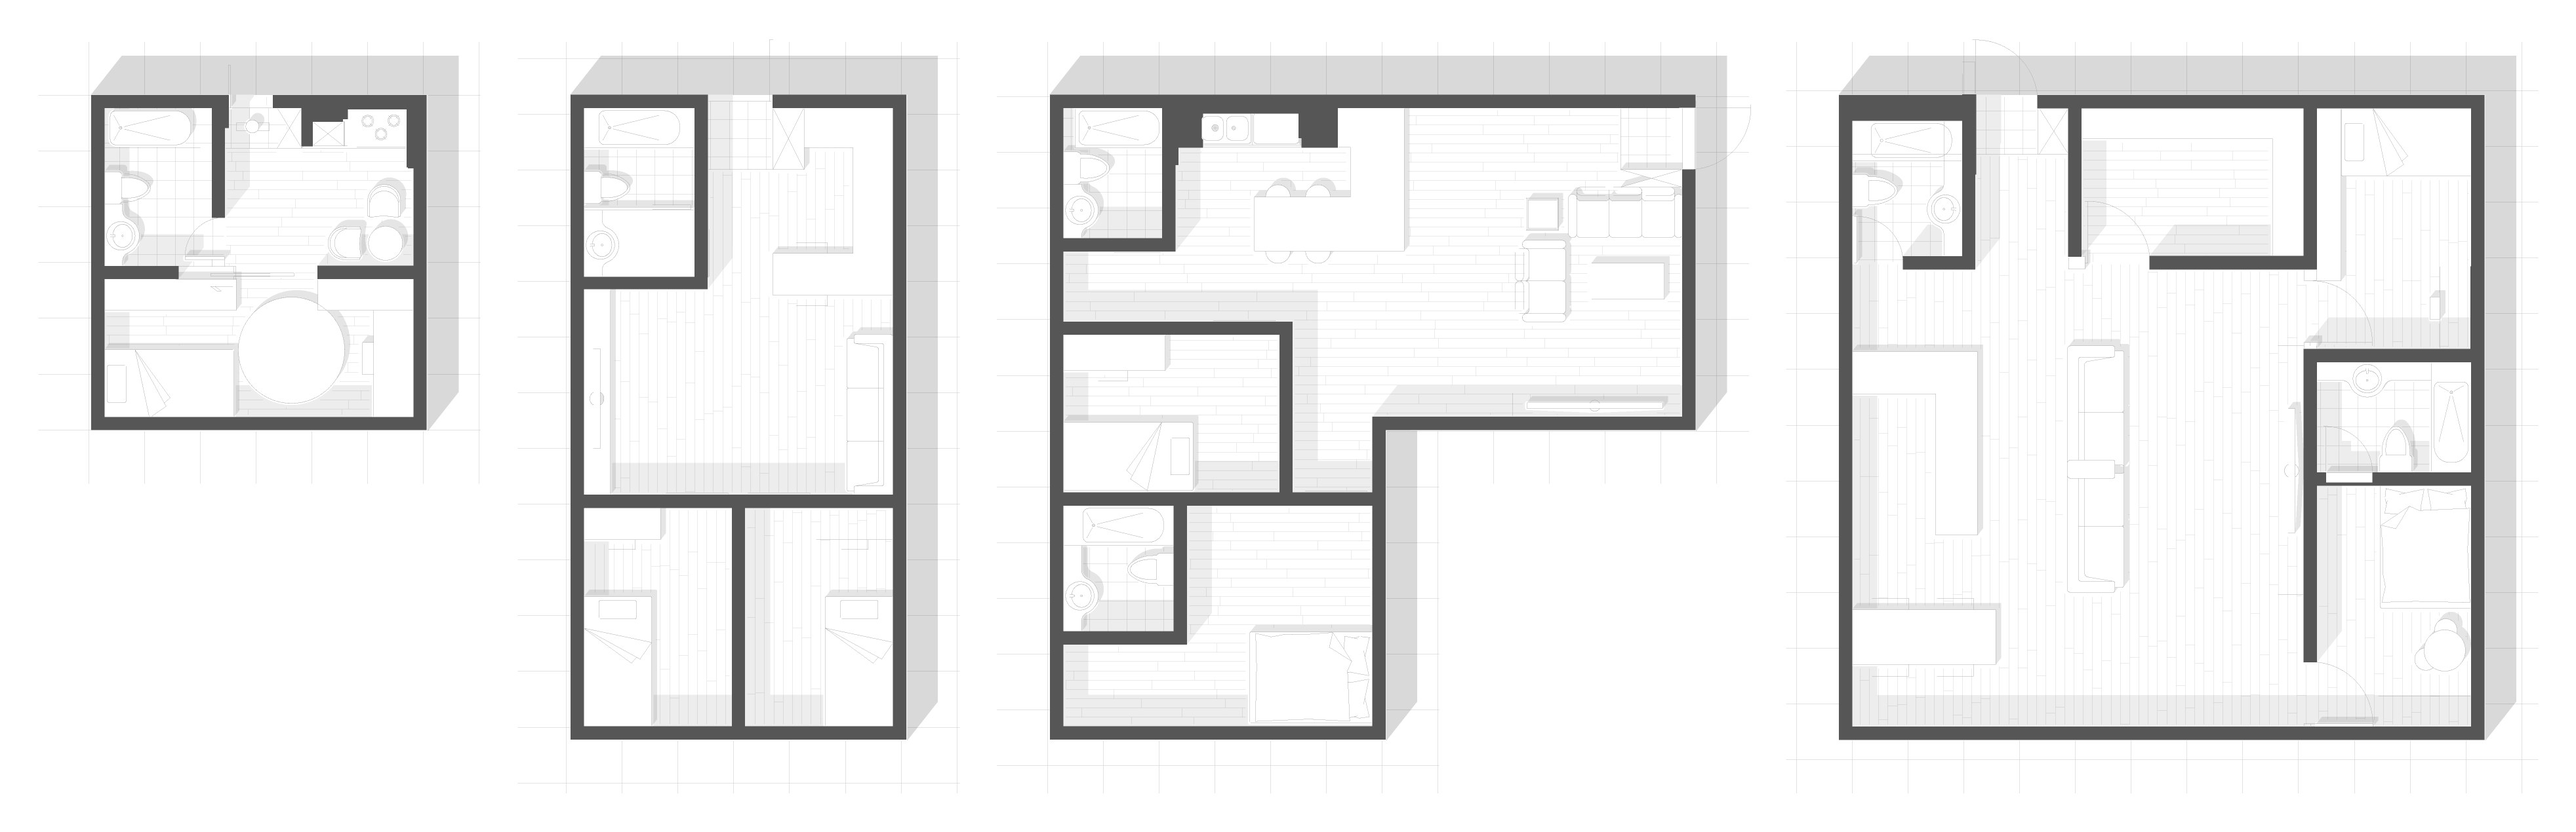
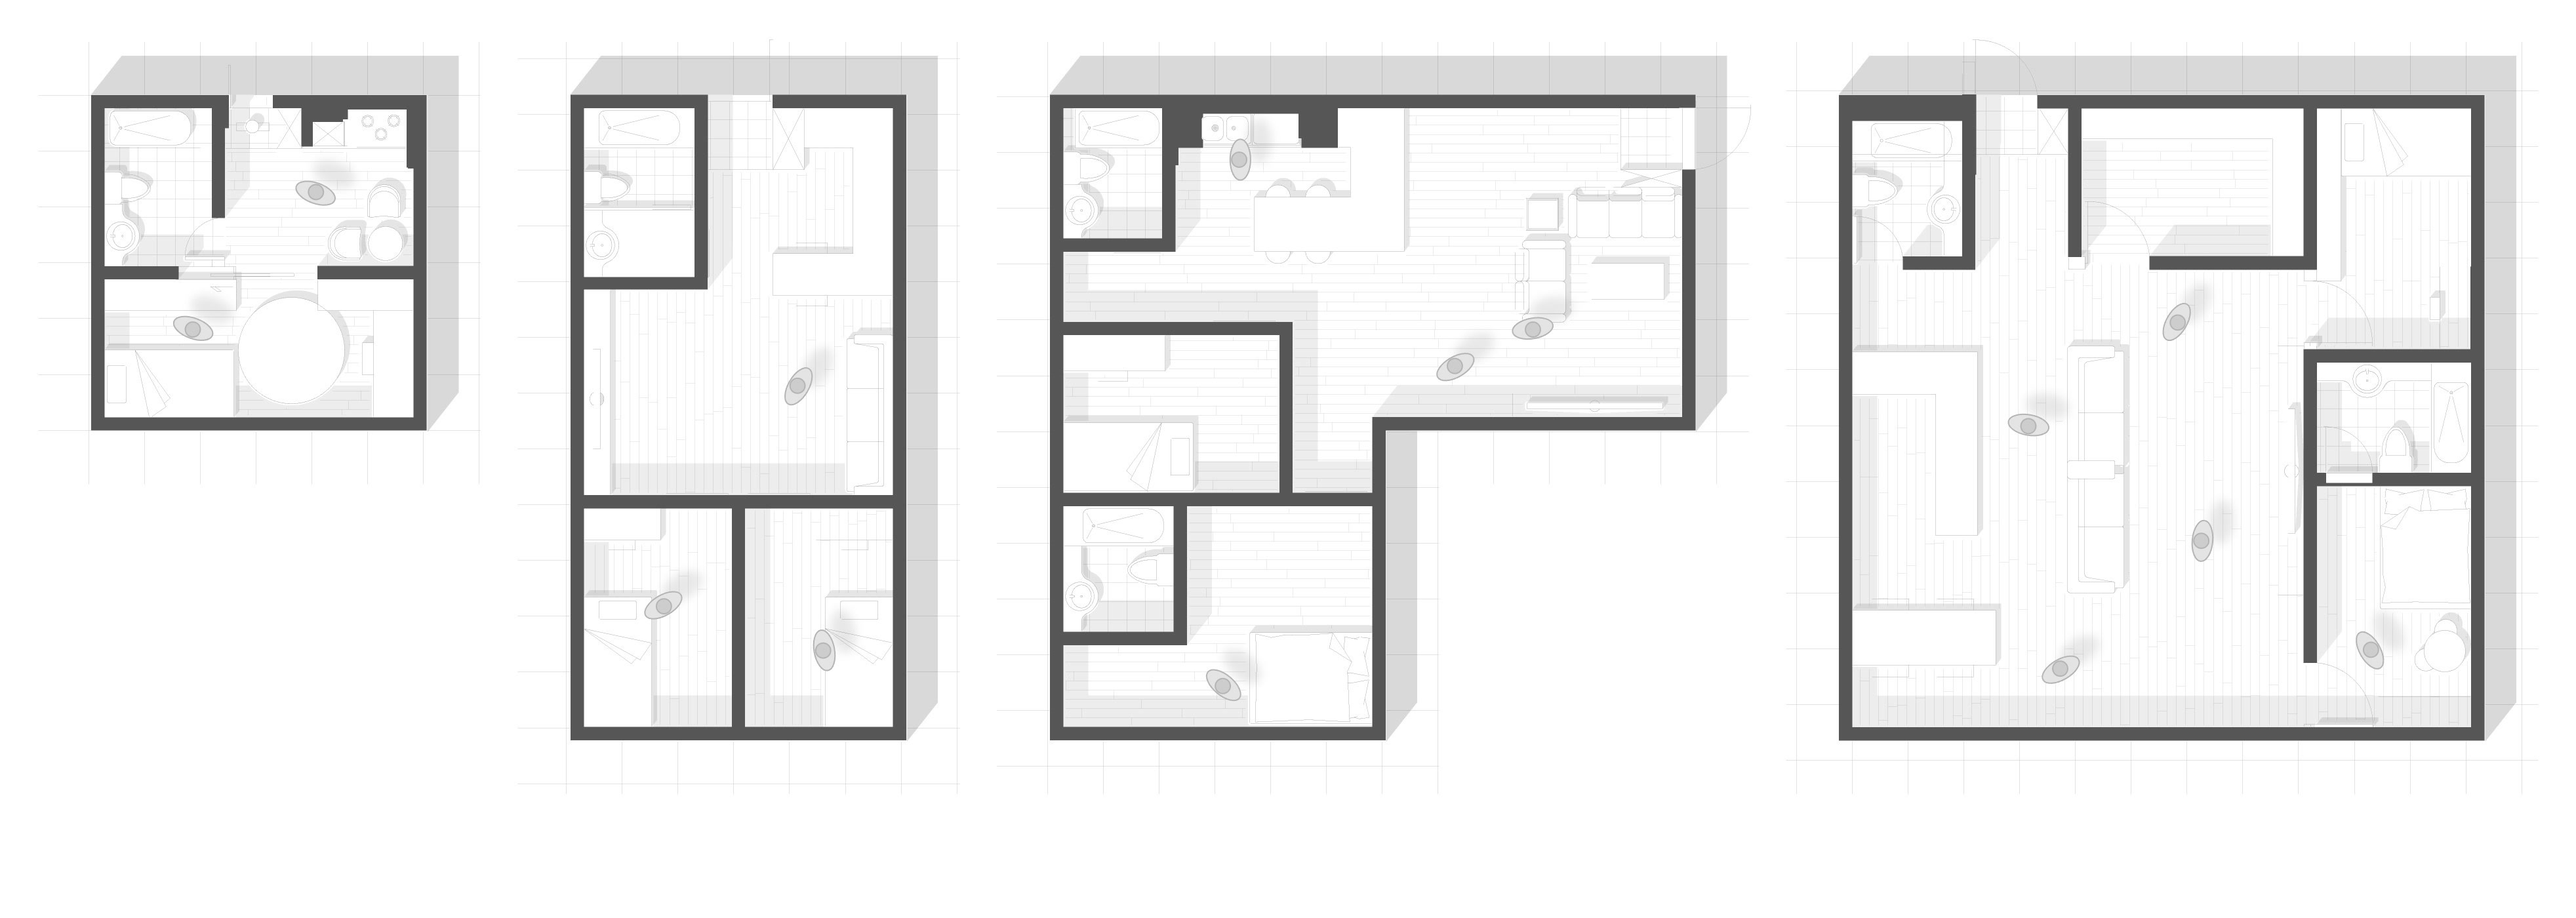
핀 #67 (Modular O′ housing 세대 평면): 타입 A–D 이름·칸 수·면적·쓰임을 사이트 글자로, 평면 안에 연한 사람(위에서 본 어깨·머리)과 벽 그림자 방향의 흐린 그림자 14명

diff --git a/assets/js/data.js b/assets/js/data.js
@@ -1123,7 +1123,7 @@ const SITE = {
         heading: "Mass Study", text: "Six moves on one site: maximum volume, entrance axis, four blocks, modular cells, daylight, bridges and arcade.", images: [{src: "assets/img/modular-o-housing/axonometric-render.jpg", caption: "Axonometric view — install, live, take apart", r: 1.778}], seq: {"kind":"frames","r":1.492,"lite":true,"fade":true,"k":0.72,"steps":[{"src":"assets/img/modular-o-housing/mass-1.svg","t":"Maximum volume","s":"the largest mass the site allows"},{"src":"assets/img/modular-o-housing/mass-2.svg","t":"Entrance axis","s":"a long shared plaza opens from the entrance"},{"src":"assets/img/modular-o-housing/mass-3.svg","t":"Four blocks","s":"split for access, with shared yards on two layers"},{"src":"assets/img/modular-o-housing/mass-4.svg","t":"Modular cells","s":"infill system and factory-made frames for a shorter build, grouped in clusters"},{"src":"assets/img/modular-o-housing/mass-5.svg","t":"Daylight","s":"heights stepped so the sun reaches the yards"},{"src":"assets/img/modular-o-housing/mass-6.svg","t":"Bridges + arcade","s":"bridges between blocks, shops in a ground-floor arcade, farm yards between"}]} },
       { v: 0, // 핀 #46 #66 왼쪽 끝 세로선에 맞춰요
         heading: "Kit of Parts", text: "One grid, one node, skeleton and infill, dry and reversible — eight module types that every part obeys.", images: [], pan: {"src":"assets/img/modular-o-housing/kit-strip.svg","r":23.857,"h":"11vh","solid":true,"labels":[[0.088,"V-00","Module frame","the base of every closed cell"],[5.643,"V-01","Studio cell","a whole home in one module"],[11.199,"V-02","Living cell","the wet cell of a joined home"],[16.754,"V-03","Bedroom cell","a dry cell: no pod, no kitchen"],[22.31,"V-04","Children’s room","two beds and a desk"],[27.865,"V-05","End cell","the gable is an outside wall"],[33.421,"V-06","Cluster hall","a living room for one storey"],[38.976,"V-07","Shop / café","ground floor, under the homes"],[44.532,"V-08","Community corner","the farm info centre"],[50.088,"F-00","Open frame","posts + beams, bolted on site"],[55.643,"F-01","Terrace","every home touches one"],[61.199,"F-02","Arcade","market, bikes, the doorstep"],[66.754,"F-03","Bridge","the complex crossed above the street"],[72.31,"F-04","Greenhouse / lounge","shared, in the voids"],[77.865,"F-05","Roof garden","beds rented by the season"],[83.421,"F-06","Smart-farm module","seedlings for the terraces"],[88.976,"C-01","Stair core","two flights a storey"],[94.532,"C-02","Lift core","beside each stair"]],"loop":true,"cap":"Kit of parts — eighteen modules on two frames"} },
-      { heading: "Plans", text: "Four floors drawn on one frame — scroll to go up the building, one floor at a time — and the four home types the cells combine into.", images: [{src: "assets/img/modular-o-housing/unit-plans.jpg", caption: "Home types — four unit plans built from the same cells", r: 3.093}], seq: {"kind":"frames","below":true,"r":1.48,"lite":true,"fade":true,"k":0.85,"steps":[{"src":"assets/img/modular-o-housing/plan-1.jpg","t":"Ground floor","s":"shops and the arcade","d":"Shops line the street under the west block; the open ground runs from the entrance into the site"},{"src":"assets/img/modular-o-housing/plan-2.jpg","t":"Second floor","s":"the shared deck","d":"The first home clusters sit on the podium deck, each around its own small court"},{"src":"assets/img/modular-o-housing/plan-3.jpg","t":"Third floor","s":"clusters and bridges","d":"Clusters climb on the east blocks and the first bridge links them across the courtyard"},{"src":"assets/img/modular-o-housing/plan-4.jpg","t":"Typical floor","s":"four blocks, one grid","d":"Four blocks of home cells on one 4.5 m grid, tied together by bridges over the courtyard"}]} },
+      { heading: "Plans", text: "Four floors drawn on one frame — scroll to go up the building, one floor at a time — and the four home types the cells combine into.", images: [{src: "assets/img/modular-o-housing/unit-plans.jpg", caption: "Home types — four unit plans built from the same 4.5 m cells, people drawn faint for scale", r: 2.806, tags: [[3.6,84,"A  Studio","","b"],[3.6,88.6,"1 cell · 20 m²","","m"],[3.6,93.2,"one person, pod + kitchen","","m"],[22.25,84,"B  Two-cell home","","b"],[22.25,88.6,"2 cells · 40 m²","","m"],[22.25,93.2,"living + two kids' rooms","","m"],[40.85,84,"C  Family home","","b"],[40.85,88.6,"3 cells in an L · 61 m²","","m"],[40.85,93.2,"two bedrooms, two baths","","m"],[71.5,84,"D  Cluster hall","","b"],[71.5,88.6,"4 cells · 81 m²","","m"],[71.5,93.2,"a shared hall, one bedroom","","m"]]}], seq: {"kind":"frames","below":true,"r":1.48,"lite":true,"fade":true,"k":0.85,"steps":[{"src":"assets/img/modular-o-housing/plan-1.jpg","t":"Ground floor","s":"shops and the arcade","d":"Shops line the street under the west block; the open ground runs from the entrance into the site"},{"src":"assets/img/modular-o-housing/plan-2.jpg","t":"Second floor","s":"the shared deck","d":"The first home clusters sit on the podium deck, each around its own small court"},{"src":"assets/img/modular-o-housing/plan-3.jpg","t":"Third floor","s":"clusters and bridges","d":"Clusters climb on the east blocks and the first bridge links them across the courtyard"},{"src":"assets/img/modular-o-housing/plan-4.jpg","t":"Typical floor","s":"four blocks, one grid","d":"Four blocks of home cells on one 4.5 m grid, tied together by bridges over the courtyard"}]} },
       { heading: "Section and Detail", text: "The section through the courtyard bridges, and one terrace beside a home cell drawn at detail scale — the kit of parts, put together.", images: [{"src":"assets/img/modular-o-housing/section-a.jpg","caption":"Section A–A — looking east, N to S: north-middle block 31,500 · courtyard 18,000 · south-middle block 31,500","r":1.614,"lead":20,"notes":[["01","Terrace cells","Open frame + planter tray"],["02","Void + shared greenhouse","Every third storey"],["03","Roof frames","Pergola / smart farm"],["04","Stacking nodes","Pin, tie plate, bolted end plates"],["05","Bridges","Open frames + rods, levels 3 and 8"],["06","Beyond","The east blocks"],["07","Bathroom pods","Cut, set into the floor zone, ducts over"],["08","Home cells","One module each, on pins"],["09","Shared rooms","Either side of every bridge and greenhouse link"],["10","Courtyard","18,000 between the blocks, open down to B1"],["11","B1 shared rooms","Transfer slab 1,000 over, B1 slab 400"],["12","B2 parking","Retaining wall 600, perimeter drain Ø200"],["13","Raft and piles","Raft 900, caps 1,600 · PHC piles Ø500 to rock"]],"tags":[[0.6,23,"10F  +29,700","","lv"],[0.6,41.3,"7F  +19,800","","lv"],[0.6,59.3,"4F  +9,900","","lv"],[0.6,77.1,"1F  ±0","","lv"],[0.6,87.6,"B1  −5,400","","lv"],[0.6,93.6,"B2  −9,000","","lv"],[7,19.4,"01","c pt"],[23.4,45,"02","c pt"],[32.8,11.7,"03","c pt"],[40.2,35.3,"04","c pt"],[50.5,32.3,"05","c pt"],[56.7,45.2,"06","c pt"],[67.9,42,"07","c pt"],[12.4,32.3,"08","c pt"],[77.4,37.9,"09","c pt"],[50.2,80.7,"10","c pt"],[15,84,"11","c pt"],[33.8,92.8,"12","c pt"],[29.9,98,"13","c pt"]]},{"src":"assets/img/modular-o-housing/detail-section.jpg","caption":"Detail section — a terrace beside a home cell","r":1.334,"lead":30,"leadGap":5,"notes":[["01","Terrace","Planter tray on the steel deck, soil 300"],["02","Drain","Tray outlet, pipe down through the deck"],["03","Stacking node","Pin, tie plate and bolted end plates between cells"],["04","Floor cassette","Insulated, corrugated steel deck"],["05","Services","Duct and fan coil in the zone above the ceiling"],["06","Wall panel","Insulated sandwich panel, inner lining"],["07","Home cell","Kitchen, table and bed in one 4.5 m module"],["08","Balustrade","Steel post and glass at the terrace edge"],["09","Corner post","Square hollow section, bolted at each floor"]],"tags":[[28,2.2,"TERRACE CELL  4,500","c","m"],[71,2.2,"HOME CELL  4,500","c","m"],[3.2,26,"3,300","c","lv"],[3.2,68,"3,300","c","lv"],[20,43,"01","c pt"],[28.4,51,"02","c pt"],[52.2,46.3,"03","c pt"],[71.6,48.8,"04","c pt"],[65.2,13.4,"05","c pt"],[52.2,28.3,"06","c pt"],[69,39.6,"07","c pt"],[6.9,36.8,"08","c pt"],[6.9,48.8,"09","c pt"]]}], stack: true },
       { heading: "Scenes", text: "The street, the courtyard under the bridges, the module facade and the shared rooms inside.", images: [{src: "assets/img/modular-o-housing/street.jpg", caption: "Street", r: 1.778}, {src: "assets/img/modular-o-housing/courtyard.jpg", caption: "Courtyard", r: 1.778}, {src: "assets/img/modular-o-housing/module-facade.jpg", caption: "Module facade", r: 1.778}, {src: "assets/img/modular-o-housing/bridge-view.jpg", caption: "From the bridge", r: 1.778}, {src: "assets/img/modular-o-housing/atrium.jpg", caption: "Atrium", r: 1.993}, {src: "assets/img/modular-o-housing/smart-farm.jpg", caption: "Smart farm", r: 1.778}], stack: true, scenes: true },
     ],
